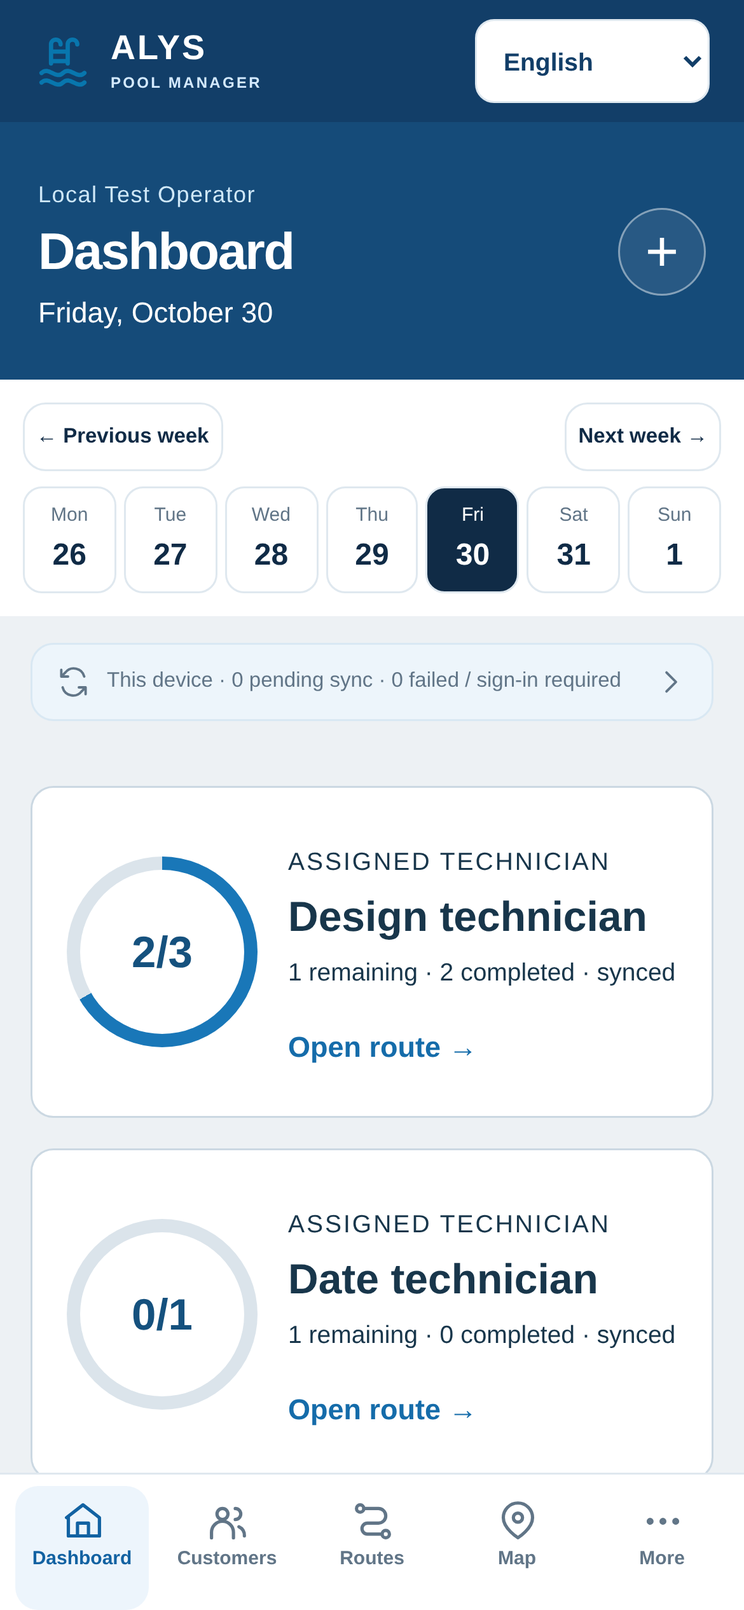
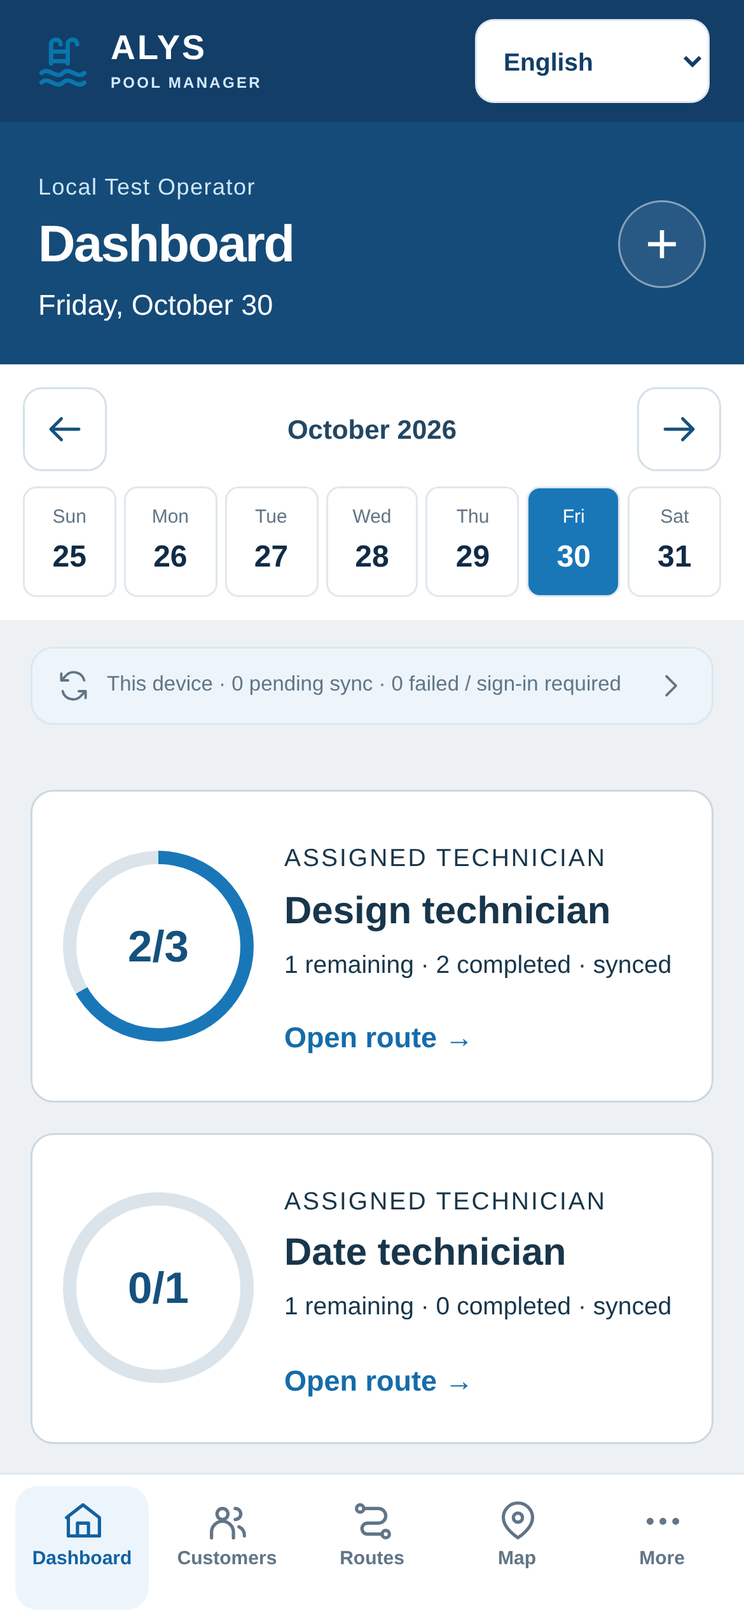
feat: streamline mobile route actions and show chemical history directly

diff --git a/src/components/field/field-app.tsx b/src/components/field/field-app.tsx
@@ -244,7 +244,7 @@ export function FieldApp({initialStopId,initialDate,initialTimeZone="America/New
       <div className={isDaily?'daily-stops':'route-workspace'}><div>{!displayStops.length?<div className="field-empty"><h2><T text={route.role==='technician'?'No assigned stops for this date.':'A clear route, ready to plan.'}/></h2><p><T text={route.role==='technician'?'Contact your owner to assign service stops.':'Add a stop below, or configure recurring service days in Clients.'}/></p></div>:<ol className="field-route-list">{displayStops.filter(item=>!isDaily||stopFilter==='all'||(stopFilter==='skipped'?item.status==='skipped':stopFilter==='completed'?item.status==='completed'||queuedIds.has(item.id):!['completed','skipped'].includes(item.status)&&!queuedIds.has(item.id))).map(item=>{
         const queued=queuedIds.has(item.id),status=queued?(queue.find(q=>q.payload.stop_id===item.id)?.status==='pending'?'queued':'failed'):item.status;
         const siblings=route.stops.filter(s=>s.technician_id===item.technician_id),siblingIndex=siblings.findIndex(s=>s.id===item.id);
-        return <RouteStopCard number={displayStops.findIndex(s=>s.id===item.id)+1} customer={item.customer.name} address={item.property.address} status={status} label={statusLabel[status]} onSelect={()=>setHighlightedStop(item.id)} meta={<><p>{item.property.name}</p>{item.status==='skipped'&&item.skip_reason&&<p className="field-note">{item.skip_reason}</p>}<p className="field-tiny"><T text={item.service_type??'Pool maintenance'}/></p>{route.route_plans?.[item.technician_id]?.calculation&&<Arrival plan={route.route_plans[item.technician_id].calculation!} stopId={item.id}/>}{route.role!=='technician'&&route.technicians&&<p className="field-tiny">{route.technicians.find(t=>t.id===item.technician_id)?.display_name??'Assigned technician'}</p>}</>} key={item.id} draggable={online&&!queued} onDragStart={event=>event.dataTransfer.setData('text/plain',item.id)} onDragOver={event=>event.preventDefault()} onDrop={event=>dropStop(event,item)} >{!['completed','skipped'].includes(item.status)?<button className="field-button field-grow" onClick={()=>startStop(item)}>{queued?<T text={"Review saved visit"}/>:item.status==='in_progress'?<T text={"Continue service →"}/>:<T text={"Start service →"}/>}</button>:item.status==='skipped'?<button className="field-button field-button-secondary field-grow" disabled={!online} onClick={()=>void mutateStop({action:'restore',stop_id:item.id})}><T text="Restore stop"/></button>:<Link className="field-button field-button-secondary field-grow" href="/history"><T text="View history"/></Link>}<a className="field-button field-button-secondary" href={navigationHref(item.property)} target="_blank" rel="noopener noreferrer" aria-label={t(`Navigate to ${item.property.name||item.customer.name}`)}><T text="Navigate ↗"/></a><a className="field-button field-button-quiet field-button-small" href={navigationHref(item.property,'apple')} target="_blank" rel="noopener noreferrer"><T text="Apple Maps"/></a>{!['completed','skipped'].includes(item.status)&&!queued&&<button className="field-button field-button-quiet field-button-small" disabled={!online} onClick={()=>{setSkipTarget(item);setSkipReason('');skipRequest.current=crypto.randomUUID();}}><T text="Skip stop"/></button>}{route.role==='owner'&&!isDaily&&!queued&&item.status==='pending'&&<label className="field-tiny"><T text="Reassign this stop"/><select aria-label={'Reassign '+(item.property.name||item.customer.name)} value={item.technician_id} disabled={!online} onChange={e=>void mutateStop({action:'reassign',stop_id:item.id,technician_id:e.target.value})}>{route.technicians?.map(t=><option key={t.id} value={t.id}>{t.display_name}</option>)}</select></label>}<div className="field-order"><button aria-label={t(`Move ${item.property.name||item.customer.name} up`)} disabled={!online||siblingIndex===0} onClick={()=>reorder(item,-1)}><Icon name="back" style={{transform:'rotate(90deg)'}}/></button><button aria-label={t(`Move ${item.property.name||item.customer.name} down`)} disabled={!online||siblingIndex===siblings.length-1} onClick={()=>reorder(item,1)}><Icon name="arrow" style={{transform:'rotate(90deg)'}}/></button></div></RouteStopCard>;
+        return <RouteStopCard number={displayStops.findIndex(s=>s.id===item.id)+1} customer={item.customer.name} address={item.property.address} status={status} label={statusLabel[status]} onSelect={()=>setHighlightedStop(item.id)} meta={<><p>{item.property.name}</p>{item.status==='skipped'&&item.skip_reason&&<p className="field-note">{item.skip_reason}</p>}<p className="field-tiny"><T text={item.service_type??'Pool maintenance'}/></p>{route.route_plans?.[item.technician_id]?.calculation&&<Arrival plan={route.route_plans[item.technician_id].calculation!} stopId={item.id}/>}{route.role!=='technician'&&route.technicians&&<p className="field-tiny">{route.technicians.find(t=>t.id===item.technician_id)?.display_name??'Assigned technician'}</p>}</>} key={item.id} draggable={online&&!queued} onDragStart={event=>event.dataTransfer.setData('text/plain',item.id)} onDragOver={event=>event.preventDefault()} onDrop={event=>dropStop(event,item)} >{!['completed','skipped'].includes(item.status)?<button className="field-button field-grow" onClick={()=>startStop(item)}>{queued?<T text={"Review saved visit"}/>:item.status==='in_progress'?<T text={"Continue service →"}/>:<T text={"Start service →"}/>}</button>:item.status==='skipped'?<button className="field-button field-button-secondary field-grow" disabled={!online} onClick={()=>void mutateStop({action:'restore',stop_id:item.id})}><T text="Restore stop"/></button>:<Link className="field-button field-button-secondary field-grow" href="/history"><T text="View history"/></Link>}<a className="field-button field-button-secondary" href={navigationHref(item.property)} target="_blank" rel="noopener noreferrer" aria-label={t(`Navigate to ${item.property.name||item.customer.name}`)}><T text="Navigate"/><Icon name="arrow"/></a><a className="field-button field-button-quiet field-button-small" href={navigationHref(item.property,'apple')} target="_blank" rel="noopener noreferrer"><T text="Apple Maps"/></a>{!['completed','skipped'].includes(item.status)&&!queued&&<button className="field-button field-button-quiet field-button-small" disabled={!online} onClick={()=>{setSkipTarget(item);setSkipReason('');skipRequest.current=crypto.randomUUID();}}><T text="Skip stop"/></button>}{route.role==='owner'&&!isDaily&&!queued&&item.status==='pending'&&<label className="field-tiny"><T text="Reassign this stop"/><select aria-label={'Reassign '+(item.property.name||item.customer.name)} value={item.technician_id} disabled={!online} onChange={e=>void mutateStop({action:'reassign',stop_id:item.id,technician_id:e.target.value})}>{route.technicians?.map(t=><option key={t.id} value={t.id}>{t.display_name}</option>)}</select></label>}<div className="field-order"><button aria-label={t(`Move ${item.property.name||item.customer.name} up`)} disabled={!online||siblingIndex===0} onClick={()=>reorder(item,-1)}><Icon name="back" style={{transform:'rotate(90deg)'}}/></button><button aria-label={t(`Move ${item.property.name||item.customer.name} down`)} disabled={!online||siblingIndex===siblings.length-1} onClick={()=>reorder(item,1)}><Icon name="arrow" style={{transform:'rotate(90deg)'}}/></button></div></RouteStopCard>;
       })}</ol>}
       {isDaily&&stopFilter==='remaining'&&remaining===0&&<p className="field-empty"><T text="No remaining stops. Check Completed or All stops."/></p>}
       {!isDaily&&route.role!=='technician'&&route.properties&&<AddStop key={selectedTechnician} route={route} technicianId={selectedTechnician==='all'?route.userId:selectedTechnician} online={online} onAdd={mutateStop}/>}</div>{!isDaily&&online&&<RoutePlanner initiallyExpanded={mapMode} key={`${date}:${selectedTechnician}`} route={route} stops={displayStops} selected={highlightedStop} onHighlight={setHighlightedStop} technicianId={selectedTechnician??route.userId} onSelect={startStop} onRefresh={()=>loadRoute(date,scope)}/>}</div>

diff --git a/tests/integration/v23-mobile.spec.ts b/tests/integration/v23-mobile.spec.ts
@@ -13,5 +13,5 @@ test('V2.3 five destinations, weekly route, map layers and mobile screens',async
  for(const [table,row] of [['customers',{id:customer,organization_id:fixture.orgId,name:'Fictional V23 customer'}],['properties',{id:property,organization_id:fixture.orgId,customer_id:customer,name:'V23 service property',address:'Fictional service address',latitude:26.12,longitude:-80.13,location_confirmed:true}],['route_stops',{id:stop,organization_id:fixture.orgId,property_id:property,technician_id:fixture.userId,service_date:fixture.date,position:1000}]] as const)expect((await db.from(table).insert(row)).error).toBeNull();
  for(const name of ['Pool','Spa'])expect((await db.from('pools').insert({organization_id:fixture.orgId,property_id:property,name,gallons:name==='Pool'?12000:1000,type:name==='Pool'?'residential':'spa',water_type:'chlorine',checklist:['Test Water','Brush Pool'],required_readings:['fc','ph']})).error).toBeNull();
  const screens=[['dashboard','/'],['route','/route'],['map','/maps'],['customers','/customers'],['customer','/customers/'+fixture.stops[0].customerId],['settings','/settings'],['service','/visit/'+stop]];
- for(const language of ['en','pt','es'] as Language[]){await page.getByRole('combobox',{name:/Language|Idioma/}).selectOption(language);for(const [name,url] of screens){await page.goto(url);await expect(page.locator('h1').first()).toBeVisible();if(name==='map')await expect(page.locator('.leaflet-container').first()).toBeVisible();if(['route','service'].includes(name))await expect(page.locator('.route-progress-ring,.field-service').first()).toBeVisible();if(name==='dashboard')await expect(page.locator('.technician-summary-card').first()).toBeVisible();if(name==='customers')await expect(page.locator('.customer-table')).toBeVisible();await expect(page.locator('.mobile-tabbar a')).toHaveCount(5);for(const width of [320,390,430]){await page.setViewportSize({width,height:844});expect(await page.evaluate(()=>document.documentElement.scrollWidth<=innerWidth),language+' '+name+' '+width).toBe(true);}if(language==='en'){await page.setViewportSize({width:390,height:844});await page.evaluate(()=>{(document.activeElement as HTMLElement)?.blur();window.scrollTo(0,0);});if(name==='service'){await expect(page.getByRole('button',{name:'Finish & Next',exact:true})).toBeInViewport();await expect(page.locator('.rebuilt-visit .mobile-field-header')).toBeInViewport();await expect(page.locator('.mobile-tabbar')).toBeInViewport();}await page.screenshot({path:info.outputPath(name+'.png')});}if(name==='route')await expect(page.locator('.route-stop-card').first()).toBeVisible();if(name==='service'){for(const key of ['Recent Activity','Pool Info','Equipment','Checklist','Readings','Dosages','Notes','Photos','Email'])await expect(page.locator('.rebuild-service-card').getByRole('heading',{name:translate(key,language),exact:true}).first()).toBeAttached();expect(await page.locator('.pool-tabs').evaluate(el=>Boolean(el.compareDocumentPosition(document.querySelector('.service-step-nav')!)&Node.DOCUMENT_POSITION_FOLLOWING))).toBe(true);await page.getByRole('checkbox',{name:translate('Test Water',language),exact:true}).check();await expect(page.locator('.checklist-count').first()).toContainText('1 / 2');await page.getByRole('tab',{name:translate('Info',language),exact:true}).click();await expect(page.locator('#panel-service-info')).toBeVisible();if(language==='en')await page.screenshot({path:info.outputPath('service-info.png')});await page.getByRole('tab',{name:'Spa',exact:true}).click();await expect(page.getByRole('tab',{name:'Spa',exact:true})).toHaveAttribute('aria-selected','true');if(language==='en')await page.screenshot({path:info.outputPath('service-spa.png')});await page.getByRole('tab',{name:'Pool',exact:true}).click();}if(name==='map'){const satellite=page.getByRole('button',{name:translate('Satellite',language),exact:true});await satellite.click();await expect(satellite).toHaveAttribute('aria-pressed','true');await page.getByRole('button',{name:translate('Map',language),exact:true}).click();}}}
+ for(const language of ['en','pt','es'] as Language[]){await page.getByRole('combobox',{name:/Language|Idioma/}).selectOption(language);for(const [name,url] of screens){await page.goto(url);await expect(page.locator('h1').first()).toBeVisible();if(name==='map')await expect(page.locator('.leaflet-container').first()).toBeVisible();if(['route','service'].includes(name))await expect(page.locator('.route-progress-ring,.field-service').first()).toBeVisible();if(name==='dashboard')await expect(page.locator('.technician-summary-card').first()).toBeVisible();if(name==='customers')await expect(page.locator('.customer-table')).toBeVisible();await expect(page.locator('.mobile-tabbar a')).toHaveCount(5);for(const width of [320,390,430]){await page.setViewportSize({width,height:844});expect(await page.evaluate(()=>document.documentElement.scrollWidth<=innerWidth),language+' '+name+' '+width).toBe(true);}if(language==='en'){await page.setViewportSize({width:390,height:844});await page.evaluate(()=>{(document.activeElement as HTMLElement)?.blur();window.scrollTo(0,0);});if(name==='service'){await expect(page.getByRole('button',{name:'Finish & Next',exact:true})).toBeInViewport();await expect(page.locator('.rebuilt-visit .mobile-field-header')).toBeInViewport();await expect(page.locator('.mobile-tabbar')).toBeInViewport();}await page.screenshot({path:info.outputPath(name+'.png')});}if(name==='route'){const first=page.locator('.route-stop-card').first();await expect(first).toBeVisible();await expect(first.locator('.route-primary-actions a[href^="https://www.google.com/maps/"]')).toBeVisible();await first.locator('.route-secondary-actions>summary').click();await expect(first.locator('.field-order')).toBeVisible();await first.locator('.route-secondary-actions>summary').click();}if(name==='service'){for(const key of ['Recent Activity','Pool Info','Equipment','Checklist','Readings','Dosages','Notes','Photos','Email'])await expect(page.locator('.rebuild-service-card').getByRole('heading',{name:translate(key,language),exact:true}).first()).toBeAttached();expect(await page.locator('.pool-tabs').evaluate(el=>Boolean(el.compareDocumentPosition(document.querySelector('.service-step-nav')!)&Node.DOCUMENT_POSITION_FOLLOWING))).toBe(true);await page.getByRole('checkbox',{name:translate('Test Water',language),exact:true}).check();await expect(page.locator('.checklist-count').first()).toContainText('1 / 2');await page.getByRole('tab',{name:translate('Info',language),exact:true}).click();await expect(page.locator('#panel-service-info')).toBeVisible();if(language==='en')await page.screenshot({path:info.outputPath('service-info.png')});await page.getByRole('tab',{name:'Spa',exact:true}).click();await expect(page.getByRole('tab',{name:'Spa',exact:true})).toHaveAttribute('aria-selected','true');if(language==='en')await page.screenshot({path:info.outputPath('service-spa.png')});await page.getByRole('tab',{name:'Pool',exact:true}).click();}if(name==='map'){const satellite=page.getByRole('button',{name:translate('Satellite',language),exact:true});await satellite.click();await expect(satellite).toHaveAttribute('aria-pressed','true');await page.getByRole('button',{name:translate('Map',language),exact:true}).click();}}}
 });

diff --git a/src/components/mobile/field-layout.tsx b/src/components/mobile/field-layout.tsx
@@ -1,7 +1,16 @@
 'use client';
-import type {ReactNode,LiHTMLAttributes} from 'react';
+import {Children,type ReactNode,type LiHTMLAttributes} from 'react';
 import {T,useLanguage} from '@/components/i18n';
 export function MobileHeader({title,address,eyebrow,action}:{title:ReactNode;address?:ReactNode;eyebrow?:ReactNode;action?:ReactNode}){return <header className="mobile-field-header"><div>{eyebrow&&<p>{eyebrow}</p>}<h1>{title}</h1>{address&&<div className="mobile-field-address">{address}</div>}</div>{action&&<div className="mobile-field-header-action">{action}</div>}</header>;}
 export function ProgressDial({completed,total}:{completed:number;total:number}){const {t}=useLanguage();return <div className="mobile-progress-dial" role="progressbar" aria-label={t("Completed visits")} aria-valuemin={0} aria-valuemax={total||1} aria-valuenow={completed} style={{background:`conic-gradient(#1977b8 ${total?Math.min(1,completed/total)*360:0}deg,#dbe4eb 0)`}}><strong>{completed}/{total}</strong></div>;}
 export function ServiceCard({title,children,id,action}:{title:string;children:ReactNode;id?:string;action?:ReactNode}){return <section className="rebuild-service-card field-section service-anchor" id={id}><header><h2><T text={title}/></h2>{action}</header><div className="rebuild-service-card-body">{children}</div></section>;}
-export function RouteStopCard({number,customer,address,status,label,onSelect,meta,children,...props}:{number:number;customer:string;address:string;status:string;label:string;onSelect:()=>void;meta?:ReactNode;children:ReactNode}&LiHTMLAttributes<HTMLLIElement>){return <li {...props} className={'field-stop route-stop-card '+(props.className??'')} data-status={status}><div className="route-stop-ordinal" aria-hidden>{number}</div><article><header><div><h2><button className="route-stop-select" onClick={onSelect}>{customer}</button></h2><p>{address}</p></div><span className={'field-badge field-badge-'+status}><T text={label}/></span></header>{meta&&<div className="route-stop-meta">{meta}</div>}<div className="field-stop-actions">{children}</div></article></li>;}
+export function RouteStopCard({number,customer,address,status,label,onSelect,meta,children,...props}:{number:number;customer:string;address:string;status:string;label:string;onSelect:()=>void;meta?:ReactNode;children:ReactNode}&LiHTMLAttributes<HTMLLIElement>){
+ const actions=Children.toArray(children);
+ return <li {...props} className={'field-stop route-stop-card '+(props.className??'')} data-status={status}>
+  <div className="route-stop-ordinal" aria-hidden>{number}</div>
+  <article><header><div><h2><button className="route-stop-select" onClick={onSelect}>{customer}</button></h2><p>{address}</p></div><span className={'field-badge field-badge-'+status}><T text={label}/></span></header>
+   <div className="field-stop-actions route-primary-actions">{actions.slice(0,2)}</div>
+   <details className="route-secondary-actions"><summary><T text="More"/></summary>{meta&&<div className="route-stop-meta">{meta}</div>}<div className="field-stop-actions">{actions.slice(2)}</div></details>
+  </article>
+ </li>;
+}

diff --git a/src/components/route-calendar.tsx b/src/components/route-calendar.tsx
@@ -1,11 +1,12 @@
 'use client';
+import {Icon} from './design/icon';
 import {T,DateText,useLanguage} from './i18n';
 import {formatDate} from '@/lib/i18n/core';
 import type {DrivingPlan} from '@/lib/routing';
 export function WeekCalendar({date,onChange,timeZone='America/New_York'}:{date:string;timeZone?:string;onChange:(date:string)=>void}){
- const {language}=useLanguage();const chosen=new Date(date+'T12:00:00Z');const monday=new Date(chosen);monday.setUTCDate(monday.getUTCDate()-((monday.getUTCDay()+6)%7));
+ const {language,t}=useLanguage();const chosen=new Date(date+'T12:00:00Z');const weekStart=new Date(chosen);weekStart.setUTCDate(weekStart.getUTCDate()-weekStart.getUTCDay());
  const shift=(n:number)=>{const next=new Date(chosen);next.setUTCDate(next.getUTCDate()+n);onChange(next.toISOString().slice(0,10));};
 
- return <section className="route-calendar"><div className="route-calendar-controls"><button className="field-button field-button-secondary field-button-small" onClick={()=>shift(-7)}><T text="← Previous week"/></button><button className="field-button field-button-secondary field-button-small" onClick={()=>shift(7)}><T text="Next week →"/></button></div><div className="route-days">{Array.from({length:7},(_,index)=>{const day=new Date(monday);day.setUTCDate(day.getUTCDate()+index);const value=day.toISOString().slice(0,10);return <button key={value} className={date===value?'chosen':''} aria-pressed={date===value} onClick={()=>onChange(value)}><span>{formatDate(day,language,{weekday:'short',timeZone})}</span><strong>{day.getUTCDate()}</strong></button>;})}</div></section>;
+ return <section className="route-calendar"><div className="route-calendar-controls"><button type="button" className="calendar-week-step" aria-label={t('← Previous week')} onClick={()=>shift(-7)}><Icon name="back"/></button><strong>{formatDate(chosen,language,{month:'long',year:'numeric',timeZone})}</strong><button type="button" className="calendar-week-step" aria-label={t('Next week →')} onClick={()=>shift(7)}><Icon name="arrow"/></button></div><div className="route-days">{Array.from({length:7},(_,index)=>{const day=new Date(weekStart);day.setUTCDate(day.getUTCDate()+index);const value=day.toISOString().slice(0,10);return <button key={value} className={date===value?'chosen':''} aria-pressed={date===value} onClick={()=>onChange(value)}><span>{formatDate(day,language,{weekday:'short',timeZone})}</span><strong>{day.getUTCDate()}</strong></button>;})}</div></section>;
 }
 export function Arrival({plan,stopId,timeZone='America/New_York'}:{plan:DrivingPlan;stopId:string;timeZone?:string}){const leg=plan.arrivals.find(a=>a.stop_id===stopId);if(!leg)return null;const next=plan.arrivals[plan.arrivals.indexOf(leg)+1];return <p className="route-arrival"><T text="Estimated arrival"/>: <DateText value={leg.at} options={{hour:'numeric',minute:'2-digit',timeZone}}/>{next&&<> · <T text="Next stop"/>: {(next.distance_m/1609.344).toFixed(1)}<T text={" mi · "}/>{Math.round(next.duration_s/60)}<T text={" min"}/></>}</p>;}

diff --git a/src/components/field/chemistry-history.tsx b/src/components/field/chemistry-history.tsx
@@ -2,4 +2,4 @@
 import {T,useLanguage,DateText,NumberText} from '@/components/i18n';
 import {ChemicalTables} from '@/components/chemical-tables';
 import type {ChemistryEntry} from '@/lib/field/chemistry';
-export function ChemistryHistory({entries,poolName}:{entries:ChemistryEntry[];poolName:string}){const {t}=useLanguage();const previous=entries[0];return <section className="field-chemistry-history" aria-label={t(`${poolName} chemical history`)}><div className="field-row-between"><h3><T text="Chemical history"/></h3><span className="field-tiny"><T text="Last 30 days"/></span></div>{previous?<><div className="previous-readings">{(['fc','ph','ta','salt'] as const).filter(key=>previous.readings[key]!==undefined).map(key=><span key={key}><small>{key==='fc'?<T text="FC"/>:key==='ph'?<T text="pH"/>:key==='ta'?<T text="TA"/>:<T text="Salt"/>}</small><strong><NumberText value={previous.readings[key]!}/></strong></span>)}<small><DateText value={previous.completed_at} options={{month:'short',day:'numeric',timeZone:previous.service_timezone??'America/New_York'}}/></small></div><details><summary><T text="View chemical history"/></summary><ChemicalTables rows={entries}/></details><p className="field-reference"><T text="Past service only. Enter fresh readings below."/></p></>:<p className="field-tiny"><T text="No chemical records in the last 30 days."/></p>}</section>;}
+export function ChemistryHistory({entries,poolName}:{entries:ChemistryEntry[];poolName:string}){const {t}=useLanguage();const previous=entries[0];return <section className="field-chemistry-history" aria-label={t(`${poolName} chemical history`)}><div className="field-row-between"><h3><T text="Chemical history"/></h3><span className="field-tiny"><T text="Last 30 days"/></span></div>{previous?<><div className="previous-readings">{(['fc','ph','ta','salt'] as const).filter(key=>previous.readings[key]!==undefined).map(key=><span key={key}><small>{key==='fc'?<T text="FC"/>:key==='ph'?<T text="pH"/>:key==='ta'?<T text="TA"/>:<T text="Salt"/>}</small><strong><NumberText value={previous.readings[key]!}/></strong></span>)}<small><DateText value={previous.completed_at} options={{month:'short',day:'numeric',timeZone:previous.service_timezone??'America/New_York'}}/></small></div><ChemicalTables rows={entries}/><p className="field-reference"><T text="Past service only. Enter fresh readings below."/></p></>:<p className="field-tiny"><T text="No chemical records in the last 30 days."/></p>}</section>;}

diff --git a/src/components/mobile/rebuild.css b/src/components/mobile/rebuild.css
@@ -9,3 +9,5 @@
 .field-app .field-service.rebuilt-visit>.field-complete-bar{position:fixed;left:12px;right:12px;bottom:calc(var(--tab-height,72px) + env(safe-area-inset-bottom));margin:0;padding:12px;background:#fff;border-radius:12px;box-shadow:0 -4px 24px #163e6210}
 
 @media(min-width:900px){.field-app .field-service.rebuilt-visit>.field-complete-bar{left:auto;right:24px;bottom:20px;width:calc(100% - 300px);max-width:900px}}
+/* Field density: two primary actions, optional controls, visible recent readings. */
+.route-stop-card .route-primary-actions{display:grid;grid-template-columns:minmax(0,1fr) auto;align-items:stretch}.route-stop-card .route-primary-actions>.field-button{font-size:12px;min-height:46px}.route-secondary-actions{margin-top:2px}.route-secondary-actions>summary{min-height:44px;padding:6px 0;font-size:12px;color:#617587}.route-secondary-actions .field-stop-actions{padding-top:6px}.route-calendar-controls{display:grid;grid-template-columns:44px minmax(0,1fr) 44px;align-items:center;gap:8px;margin-bottom:8px}.route-calendar-controls strong{text-align:center;font-size:14px;color:#234763}.calendar-week-step{width:44px;height:44px;min-height:44px;display:grid;place-items:center;border:1px solid #d5e1e9;border-radius:10px;background:white;color:#15517e}.mobile-dashboard .route-days button,.rebuilt-field .route-days button{border-radius:7px;border-color:#e0e7ed;min-height:58px}.mobile-dashboard .route-days .chosen,.rebuilt-field .route-days .chosen{background:#1977b8;color:#fff}.rebuild-service-card-body .chemistry-scroll{margin-top:12px}.app-shell .field-app.rebuilt-field>.field-row-between{min-height:28px;padding-block:4px}.rebuilt-field>.mobile-field-header{min-height:88px;padding-block:14px}.mobile-dashboard .mobile-field-header{min-height:112px;padding:20px}.technician-summary-card{padding:20px 16px;min-height:154px}.technician-summary-card h2{font-size:20px!important}.route-stop-card article>header>div{min-width:0}.route-stop-card .route-stop-select{overflow-wrap:anywhere;text-align:left}.route-stop-card article>header>.field-badge{flex:none;max-width:94px}

diff --git a/tests/integration/expanded-route.spec.ts b/tests/integration/expanded-route.spec.ts
@@ -19,7 +19,7 @@ test('weekly routes and authorized road optimization persist, with manual overri
  await expect.poll(async()=>{const {data}=await admin.from('route_stops').select('id').eq('technician_id',technician).eq('service_date',fixture.date).order('position');return data!.map(s=>s.id);}).toEqual([ids[0],ids[2],ids[1]]);
  await expect(page.locator('.route-summary-grid')).toContainText('1.3 mi');
  await expect(page.locator('.route-planner')).toContainText('Estimated completion time');
- await page.getByRole('button',{name:'Move Routing Stop 2 up',exact:true}).click();
+ await page.locator('.route-stop-card').filter({hasText:'Routing Stop 2'}).locator('.route-secondary-actions>summary').click();await page.getByRole('button',{name:'Move Routing Stop 2 up',exact:true}).click();
  await expect.poll(async()=>{const {data}=await admin.from('route_stops').select('id').eq('technician_id',technician).eq('service_date',fixture.date).order('position');return data!.map(s=>s.id);}).toEqual(ids);
  await expect(page.locator('.route-summary-grid')).toContainText('Not calculated');
  await page.getByRole('button',{name:'Next week →',exact:true}).click();await expect(page.getByText('A clear route, ready to plan.',{exact:true})).toBeVisible();await page.getByRole('button',{name:'Today',exact:true}).click();await expect(page.getByRole('heading',{name:'Routing Stop 1',exact:true})).toBeVisible();

diff --git a/tests/integration/route.spec.ts b/tests/integration/route.spec.ts
@@ -36,7 +36,7 @@ test('mobile service persists JPEG, snapshot and one outbox; offline visit survi
   await expect(page.getByRole('heading',{name:'Test Property 1',exact:true})).toBeVisible();
   await expect(page.getByLabel('Pool 1 Free Chlorine (ppm)',{exact:true})).toHaveValue('');
   await expect(page.getByLabel('Pool 1 pH',{exact:true})).toHaveValue('');
-  await page.getByText('View chemical history',{exact:true}).first().click();const chemistry=page.getByRole('region',{name:'Pool 1 chemical history'});
+  const chemistry=page.getByRole('region',{name:'Pool 1 chemical history'});
   await expect(chemistry.getByRole('heading',{name:'Chemical history',exact:true})).toBeVisible();
   await expect(chemistry).toContainText('Last 30 days');
   await expect(chemistry.getByRole('cell',{name:'0',exact:true})).toBeVisible();

diff --git a/docs/V23-ACTUAL-REBUILD.md b/docs/V23-ACTUAL-REBUILD.md
@@ -83,3 +83,16 @@ Correções encontradas na revisão da reconstrução:
 Arquivos: `src/components/mobile/dashboard.tsx`, `src/components/field/field-app.tsx` e `tests/integration/v23-review.spec.ts`.
 
 Validação desta revisão: lint, typecheck e build aprovados; 139 testes unitários e cinco testes mobile/offline aprovados. Os três testes novos verificam respostas com usuário/organização/data/fuso incorretos (simulados), retry, resposta atrasada, manutenção da data nos links e troca de fuso no mapa. A rodada inclui também o cenário visual EN/PT/ES em 320/390/430 px e a reabertura offline. Nenhum backend, schema, RLS ou formato da fila foi alterado; o aceite físico no iPhone permanece pendente.
+
+## Continuidade visual — foco em produtividade
+
+- Calendário horizontal de domingo a sábado, com mês/ano central e setas de semana com alvos de 44 px; os nomes acessíveis continuam traduzidos.
+- Cartões de parada mostram cliente, endereço, status, ação principal e GPS. Metadados, Apple Maps, Skip, reatribuição e ordenação continuam acessíveis em More, sem disputar espaço com Start Service.
+- Histórico dos últimos 30 dias mostra a tabela diretamente quando há registros. Ausência de dados continua explícita; valores anteriores não são copiados para as novas medições.
+- Cabeçalho e cartões de técnicos ficaram mais compactos. A seta de navegação usa o ícone SVG ALYS, evitando depender de glifos de fonte.
+
+Componentes alterados nesta etapa: `src/components/route-calendar.tsx`, `src/components/mobile/field-layout.tsx`, `src/components/mobile/rebuild.css`, `src/components/field/chemistry-history.tsx` e `src/components/field/field-app.tsx`. Testes de interface atualizados para histórico aberto e ordenação em More. As capturas AFTER permanecem nos caminhos da tabela acima; as capturas BEFORE são preservadas.
+
+Inspeção visual realizada nas três telas em 390 CSS px. Validação: lint, typecheck, build e 139 testes unitários aprovados; sete cenários selecionados mobile/offline aprovados, incluindo navegação EN/PT/ES, abertura das ações secundárias, troca de mapa/fuso, respostas atrasadas, visitas e fotos pendentes e reabertura offline. Após substituir a seta textual por SVG, o cenário visual final foi repetido e aprovado; essa repetição não representa um cenário adicional distinto.
+
+As referências usadas continuam sendo as dez imagens disponíveis na conversa, não arquivos locais inexistentes. Sem mudança de backend, RLS, migrations, schema IndexedDB, relatórios ou contratos. Sem envio real de e-mail, merge, deploy ou banco remoto. O aceite de câmera/GPS/Safari e área segura no iPhone físico continua pendente.
